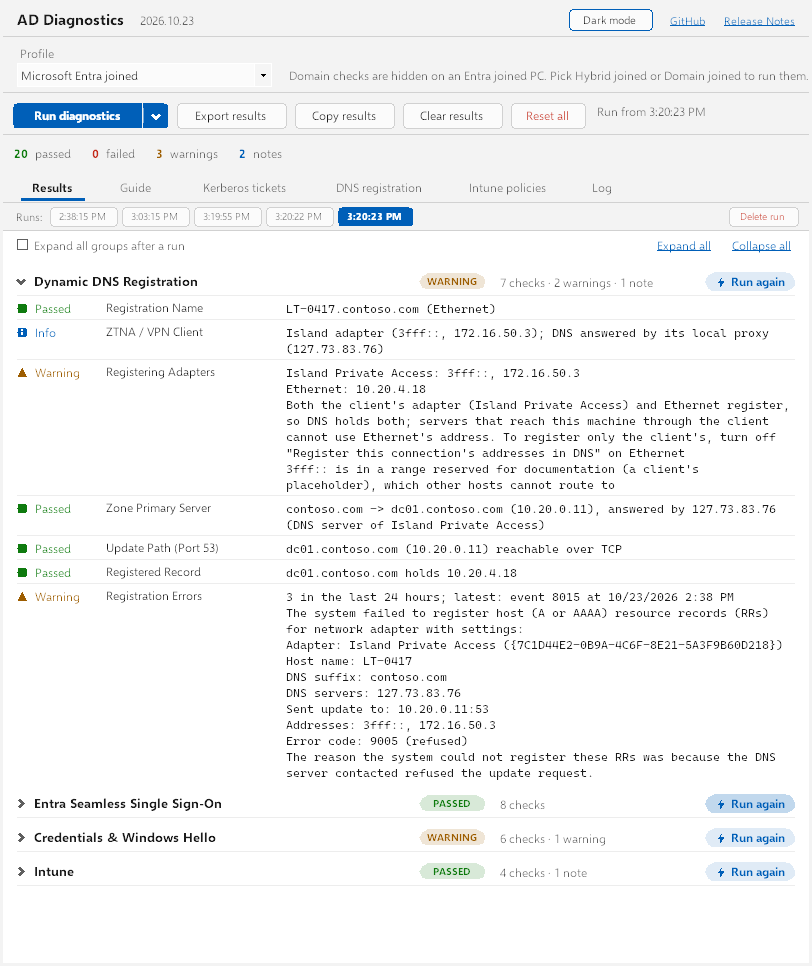
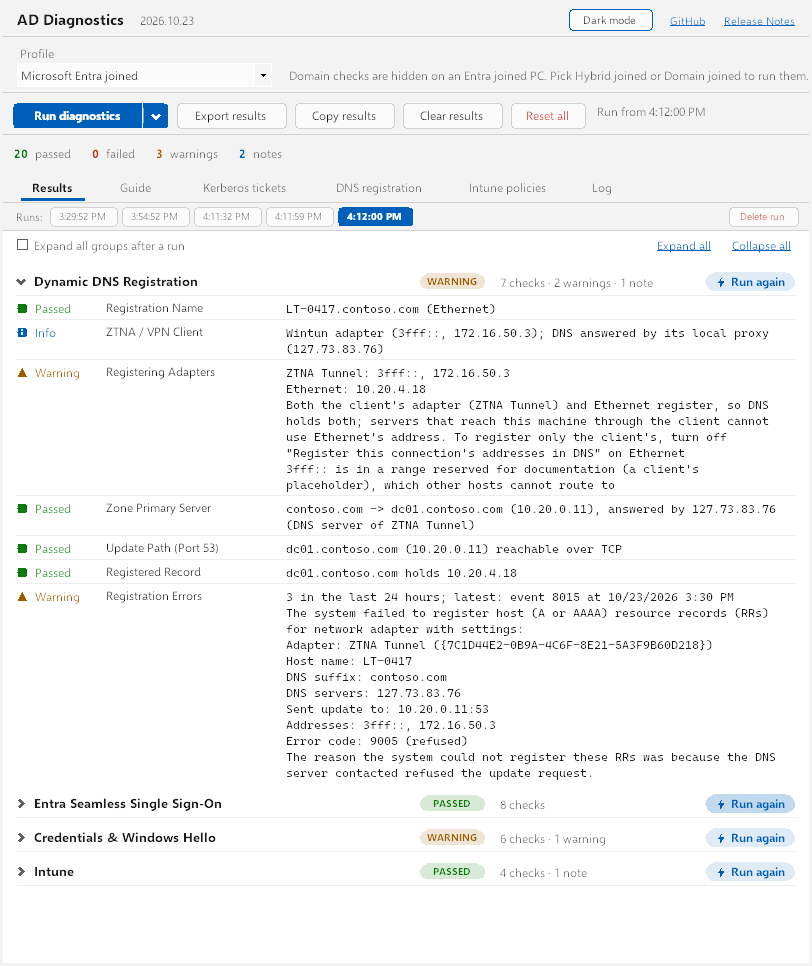
chore: remove the Island client from detection, docs and tests
Island's adapter is still caught by the generic Wintun entry, so ZTNA
detection is unchanged in effect; it is now labelled "Wintun adapter".
Tests and the screenshot mock use a generic "ZTNA Tunnel" adapter.

Claude-Session: https://claude.ai/code/session_01F5Q32oh4YGdSDNfSinn2zN

diff --git a/tests/AdDiag.Tests/DnsRegistrationTests.cs b/tests/AdDiag.Tests/DnsRegistrationTests.cs
@@ -58,11 +58,11 @@ public class DnsRegistrationTests
         Assert.Empty(probe.SoaCalls);
     }
 
-    // The PC from the report: no primary suffix, IOT has nscriven.net and registers, Island has scrivtech.com and doesn't
+    // The PC from the report: no primary suffix, IOT has nscriven.net and registers, the ZTNA tunnel has scrivtech.com and doesn't
     static List<NetAdapter> SuffixedAdapters(bool useSuffix) =>
     [
         new("IOT", "Red Hat VirtIO Ethernet Adapter", false, true, [ClientIp], [DcIp], DnsSuffix: "nscriven.net", RegistersSuffix: useSuffix),
-        new("Island Private Access", "Wintun Userspace Tunnel", false, false, [IPAddress.Parse("172.16.50.5")], [], DnsSuffix: "scrivtech.com", RegistersSuffix: true),
+        new("ZTNA Tunnel", "Wintun Userspace Tunnel", false, false, [IPAddress.Parse("172.16.50.5")], [], DnsSuffix: "scrivtech.com", RegistersSuffix: true),
     ];
 
     [Fact]
@@ -77,7 +77,7 @@ public class DnsRegistrationTests
         string detail = DetailOf(group, "Registration Name");
         Assert.StartsWith("Nothing is registered: PROX-ENTRA has no primary DNS suffix", detail);
         Assert.Contains("\nIOT: nscriven.net — \"Use this connection's DNS suffix in DNS registration\" is off", detail);
-        Assert.Contains("\nIsland Private Access: scrivtech.com — \"Register this connection's addresses in DNS\" is off", detail);
+        Assert.Contains("\nZTNA Tunnel: scrivtech.com — \"Register this connection's addresses in DNS\" is off", detail);
         // Nothing is registered, so the adapter list is not a pass
         Assert.Equal(Status.Skip, StatusOf(group, "Registering Adapters"));
         Assert.Equal($"No registration name. Once there is one, these addresses are registered:\nIOT: {ClientIp}", DetailOf(group, "Registering Adapters"));
@@ -87,32 +87,32 @@ public class DnsRegistrationTests
     [Fact]
     public void UsersPc_ClientAndLanBothRegister_NoContradictions()
     {
-        // The report's screenshot: both adapters register addresses, neither registers its suffix, and Island has an
-        // address-less second interface that used to print "Island adapter" twice
-        var island = new NetAdapter("Island Private Access", "Wintun Userspace Tunnel", false, true,
+        // The report's screenshot: both adapters register addresses, neither registers its suffix, and the client has an
+        // address-less second interface that used to print its adapter twice
+        var tunnel = new NetAdapter("ZTNA Tunnel", "Wintun Userspace Tunnel", false, true,
             [IPAddress.Parse("3fff::"), IPAddress.Parse("172.16.50.5")], [IPAddress.Parse("127.73.83.76")], PointToPoint: true, DnsSuffix: "scrivtech.com");
-        var filter = new NetAdapter("Island Private Access-WFP Native MAC Layer LightWeight Filter-0000", "Island Private Access", false, false, [], []);
+        var filter = new NetAdapter("ZTNA Tunnel-WFP Native MAC Layer LightWeight Filter-0000", "Wintun Userspace Tunnel", false, false, [], []);
         var iot = new NetAdapter("IOT", "Red Hat VirtIO Ethernet Adapter", false, true, [ClientIp], [DcIp], DnsSuffix: "nscriven.net");
         var probe = Healthy();
         probe.Identity = ("PROX-ENTRA", "");
         probe.NetAdapters.Clear();
-        probe.NetAdapters.AddRange([island, filter, iot]);
+        probe.NetAdapters.AddRange([tunnel, filter, iot]);
         var group = Run(probe);
 
         Assert.Equal(Status.Info, StatusOf(group, "ZTNA / VPN Client"));
-        Assert.Equal("Island adapter (3fff::, 172.16.50.5); DNS answered by its local proxy (127.73.83.76)", DetailOf(group, "ZTNA / VPN Client"));
+        Assert.Equal("Wintun adapter (3fff::, 172.16.50.5); DNS answered by its local proxy (127.73.83.76)", DetailOf(group, "ZTNA / VPN Client"));
         Assert.Equal(Status.Skip, StatusOf(group, "Registering Adapters"));
         Assert.DoesNotContain("Behind the ZTNA client", DetailOf(group, "Registering Adapters"));
         Assert.DoesNotContain(group.Tests, t => t.Status == Status.Pass && t.Name != "Registration Errors");
         Assert.EndsWith("\n3fff:: is in a range reserved for documentation (a client's placeholder), which other hosts cannot route to",
             DetailOf(group, "Registering Adapters"));
 
-        // With a name, Island registering its placeholder address is a warning, on top of the both-register note
+        // With a name, the client registering its placeholder address is a warning, on top of the both-register note
         probe.Identity = ("PROX-ENTRA", "nscriven.net");
         group = Run(probe);
         Assert.Equal(Status.Warn, StatusOf(group, "Registering Adapters"));
         string detail = DetailOf(group, "Registering Adapters");
-        Assert.Contains("Both the client's adapter (Island Private Access) and IOT register", detail);
+        Assert.Contains("Both the client's adapter (ZTNA Tunnel) and IOT register", detail);
         Assert.Contains("3fff:: is in a range reserved for documentation", detail);
     }
 
@@ -133,20 +133,20 @@ public class DnsRegistrationTests
     [Fact]
     public void ClientAndLanBothRegisterWithAName_IsANoteNamingTheLanAdapter()
     {
-        var island = new NetAdapter("Island Private Access", "Wintun Userspace Tunnel", false, true,
+        var tunnel = new NetAdapter("ZTNA Tunnel", "Wintun Userspace Tunnel", false, true,
             [IPAddress.Parse("172.16.50.5")], [DcIp], PointToPoint: true);
         var iot = new NetAdapter("IOT", "Red Hat VirtIO Ethernet Adapter", false, true, [ClientIp], [DcIp]);
         var probe = Healthy();
         probe.NetAdapters.Clear();
-        probe.NetAdapters.AddRange([island, iot]);
+        probe.NetAdapters.AddRange([tunnel, iot]);
         var group = Run(probe);
         Assert.Equal(Status.Info, StatusOf(group, "Registering Adapters"));
-        Assert.Contains("Both the client's adapter (Island Private Access) and IOT register", DetailOf(group, "Registering Adapters"));
+        Assert.Contains("Both the client's adapter (ZTNA Tunnel) and IOT register", DetailOf(group, "Registering Adapters"));
 
         probe.NetAdapters.Remove(iot);
         group = Run(probe);
         Assert.Equal(Status.Pass, StatusOf(group, "Registering Adapters"));
-        Assert.EndsWith("Island Private Access is the client's own adapter, so DNS gets the address servers reach this machine through",
+        Assert.EndsWith("ZTNA Tunnel is the client's own adapter, so DNS gets the address servers reach this machine through",
             DetailOf(group, "Registering Adapters"));
     }
 
@@ -163,15 +163,15 @@ public class DnsRegistrationTests
     public void Adapters_OnePerLine_AndFilterCopiesDropped()
     {
         // The user's PC: Npcap's filter on the client adapter shows up as a second interface with the same addresses
-        var island = new NetAdapter("Island Private Access", "Wintun Userspace Tunnel", false, false,
+        var tunnel = new NetAdapter("ZTNA Tunnel", "Wintun Userspace Tunnel", false, false,
             [IPAddress.Parse("3fff::1"), IPAddress.Parse("172.16.50.5")], [], PointToPoint: true);
-        var npcap = island with { Name = "Island Private Access-Npcap Packet Driver (NPCAP)-0000" };
+        var npcap = tunnel with { Name = "ZTNA Tunnel-Npcap Packet Driver (NPCAP)-0000" };
         var lan = new NetAdapter("IOT", "Red Hat VirtIO Ethernet Adapter", false, true, [ClientIp], [DcIp]);
         var wifi = new NetAdapter("Wi-Fi", "Intel(R) Wi-Fi 6 AX201", false, true, [HomeIp], [DcIp]);
         // A name that merely starts the same, with other addresses, is a real adapter
         var other = new NetAdapter("IOT-2", "Red Hat VirtIO Ethernet Adapter #2", false, false, [IPAddress.Parse("10.9.9.9")], []);
-        Assert.Equal(["Island Private Access", "IOT", "Wi-Fi", "IOT-2"],
-            Diagnostics.DropFilterBindings([island, npcap, lan, wifi, other]).Select(a => a.Name));
+        Assert.Equal(["ZTNA Tunnel", "IOT", "Wi-Fi", "IOT-2"],
+            Diagnostics.DropFilterBindings([tunnel, npcap, lan, wifi, other]).Select(a => a.Name));
 
         var probe = new FakeProbe();
         probe.NetAdapters.Clear();
@@ -225,8 +225,8 @@ public class DnsRegistrationTests
             [IPAddress.Parse("fe80::1"), IPAddress.Parse("172.16.50.3")], [IPAddress.Parse("127.73.83.76")], Virtual: true);
         Assert.Equal("virtual adapter \"Acme Access\" (172.16.50.3); DNS answered by its local proxy (127.73.83.76)",
             Diagnostics.DescribeZtna([lan, client]));
-        var island = client with { Name = "Island Private Access", Description = "Island Private Access Virtual Adapter Tunnel" };
-        Assert.StartsWith("Island adapter (172.16.50.3)", Diagnostics.DescribeZtna([lan, island]));
+        var twingate = client with { Name = "Twingate", Description = "Twingate Virtual Adapter" };
+        Assert.StartsWith("Twingate adapter (172.16.50.3)", Diagnostics.DescribeZtna([lan, twingate]));
 
         var miniport = new NetAdapter("Local Area Connection* 6", "WAN Miniport (IP)", false, false, [], [], Virtual: true);
         var vswitch = new NetAdapter("vEthernet (Default Switch)", "Hyper-V Virtual Ethernet Adapter", false, true, [IPAddress.Parse("172.22.0.1")], [], Virtual: true);

diff --git a/MainForm.cs b/MainForm.cs
@@ -1164,10 +1164,10 @@ class MainForm : Form
                 "A domain member registers its own host record with the DNS server that owns its zone. These checks only read; the DNS registration tab can send a registration and trace it. A ZTNA or VPN client changes what each step means, so it is detected first.\n\n" +
                 "• Registration Name — the name Windows registers: the host name plus the primary DNS suffix, and plus an adapter's own DNS suffix where \"Use this connection's DNS suffix in DNS registration\" is on\n" +
                 "  Fix: A machine with neither registers nothing, and the checks that need a name are skipped. The primary suffix is set by the domain join (System Properties > Computer Name > Change > More). The adapter has two separate switches in IPv4 > Advanced > DNS: 'Register this connection's addresses in DNS' and 'Use this connection's DNS suffix in DNS registration'. To register under the adapter's suffix, both must be on; the first alone registers nothing when there is no primary suffix\n\n" +
-                "• ZTNA / VPN Client — an adapter from a known client (Zscaler, Cloudflare WARP, Netskope, GlobalProtect, Twingate, Island and others), any other tunnel or virtual adapter that holds an address, an adapter with a /32 address and no gateway, 100.64.0.0/10 addresses, or DNS answered by the client's local proxy (a note, not a verdict)\n" +
+                "• ZTNA / VPN Client — an adapter from a known client (Zscaler, Cloudflare WARP, Netskope, GlobalProtect, Twingate and others), any other tunnel or virtual adapter that holds an address, an adapter with a /32 address and no gateway, 100.64.0.0/10 addresses, or DNS answered by the client's local proxy (a note, not a verdict)\n" +
                 "  Fix: Nothing to fix. It explains the results below: the client decides which DNS queries and which traffic reach the corporate network. If a client is missed or wrongly found, pick its adapter (or None) under 'ZTNA adapter' on the DNS registration tab; the choice lasts until the app closes\n\n" +
                 "• Registering Adapters — the connected adapters with 'Register this connection's addresses in DNS' turned on, and the addresses they would register. Skipped when there is no registration name, since nothing is registered. Behind a client it says whether the client's own adapter registers, and a note when the local network's adapter registers beside it\n" +
-                "  Fix: Turn registration off on a tunnel adapter that holds a 100.64.0.0/10 address or a documentation-range placeholder such as 3fff:: (Island), since no other host can route to either. When servers reach this machine through the client, register only the client's adapter. Set it per adapter (IPv4 properties > Advanced > DNS) or with 'Set-DnsClient -RegisterThisConnectionsAddress'\n\n" +
+                "  Fix: Turn registration off on a tunnel adapter that holds a 100.64.0.0/10 address or a documentation-range placeholder such as 3fff::, since no other host can route to either. When servers reach this machine through the client, register only the client's adapter. Set it per adapter (IPv4 properties > Advanced > DNS) or with 'Set-DnsClient -RegisterThisConnectionsAddress'\n\n" +
                 "• Zone Primary Server — the zone holding this machine's name and its primary server, from the SOA record, asked of the DNS servers of the adapters that register, as Windows does; the detail names the server that answered. Windows sends updates to the primary server\n" +
                 "  Fix: If no SOA is found behind a ZTNA client, its DNS proxy is answering address lookups only; updates then need DNS for the AD zone to reach a real DNS server. A primary server shown with a 100.64.0.0/10 address is a synthetic address from the client. One with a public address is usually the zone's internet-facing copy, which takes no updates from this machine: the DNS server that answered does not know the internal zone\n\n" +
                 "• Update Path (Port 53) — TCP 53 to the primary server. Secure updates negotiate over TCP and also need Kerberos (port 88) to a domain controller\n" +

diff --git a/tools/screenshots/Shots.cs b/tools/screenshots/Shots.cs
@@ -420,22 +420,22 @@ static class Shots
         ];
     }
 
-    // An Entra joined laptop behind Island: both adapters register, the client's adapter with its 3fff:: placeholder,
+    // An Entra joined laptop behind a ZTNA client: both adapters register, the client's adapter with its 3fff:: placeholder,
     // and the DNS server refuses the update. The texts are the app's own, as DnsRegistration.cs writes them.
     static TestGroup MockZtnaRegistration(DateTime now) => new("Dynamic DNS Registration",
     [
         new("Registration Name", Status.Pass, "LT-0417.contoso.com (Ethernet)"),
-        new("ZTNA / VPN Client", Status.Info, "Island adapter (3fff::, 172.16.50.3); DNS answered by its local proxy (127.73.83.76)"),
-        new("Registering Adapters", Status.Warn, "Island Private Access: 3fff::, 172.16.50.3\nEthernet: 10.20.4.18\n"
-            + "Both the client's adapter (Island Private Access) and Ethernet register, so DNS holds both; servers that reach this machine "
+        new("ZTNA / VPN Client", Status.Info, "Wintun adapter (3fff::, 172.16.50.3); DNS answered by its local proxy (127.73.83.76)"),
+        new("Registering Adapters", Status.Warn, "ZTNA Tunnel: 3fff::, 172.16.50.3\nEthernet: 10.20.4.18\n"
+            + "Both the client's adapter (ZTNA Tunnel) and Ethernet register, so DNS holds both; servers that reach this machine "
             + "through the client cannot use Ethernet's address. To register only the client's, turn off \"Register this connection's "
             + "addresses in DNS\" on Ethernet\n3fff:: is in a range reserved for documentation (a client's placeholder), which other hosts cannot route to"),
-        new("Zone Primary Server", Status.Pass, "contoso.com -> dc01.contoso.com (10.20.0.11), answered by 127.73.83.76 (DNS server of Island Private Access)"),
+        new("Zone Primary Server", Status.Pass, "contoso.com -> dc01.contoso.com (10.20.0.11), answered by 127.73.83.76 (DNS server of ZTNA Tunnel)"),
         new("Update Path (Port 53)", Status.Pass, "dc01.contoso.com (10.20.0.11) reachable over TCP"),
         new("Registered Record", Status.Pass, "dc01.contoso.com holds 10.20.4.18"),
         new("Registration Errors", Status.Warn, $"3 in the last 24 hours; latest: event 8015 at {now.AddMinutes(-42):g}\n"
             + "The system failed to register host (A or AAAA) resource records (RRs) for network adapter with settings:\n"
-            + "Adapter: Island Private Access ({7C1D44E2-0B9A-4C6F-8E21-5A3F9B60D218})\nHost name: LT-0417\nDNS suffix: contoso.com\n"
+            + "Adapter: ZTNA Tunnel ({7C1D44E2-0B9A-4C6F-8E21-5A3F9B60D218})\nHost name: LT-0417\nDNS suffix: contoso.com\n"
             + "DNS servers: 127.73.83.76\nSent update to: 10.20.0.11:53\nAddresses: 3fff::, 172.16.50.3\nError code: 9005 (refused)\n"
             + "The reason the system could not register these RRs was because the DNS server contacted refused the update request."),
     ]);

diff --git a/DnsRegistration.cs b/DnsRegistration.cs
@@ -43,8 +43,7 @@ static partial class Diagnostics
         ("anyconnect", "Cisco AnyConnect"), ("cisco secure client", "Cisco Secure Client"),
         ("fortinet", "FortiClient"), ("citrix secure access", "Citrix Secure Access"), ("appgate", "Appgate"),
         ("cato networks", "Cato"), ("check point", "Check Point"), ("banyan", "Banyan"), ("ip-https", "DirectAccess"),
-        ("island private access", "Island"),
-        // Generic tunnel drivers other clients build on (Island runs on Wintun), so a product name above wins
+        // Generic tunnel drivers other clients build on, so a product name above wins
         ("wireguard", "WireGuard"), ("openvpn", "OpenVPN"), ("tap-windows", "OpenVPN"), ("wintun", "Wintun"),
     ];
 
@@ -64,7 +63,7 @@ static partial class Diagnostics
 
     /// <summary>
     /// Ranges reserved for documentation, which nothing routes: 3fff::/20 and 2001:db8::/32, and 192.0.2.0/24,
-    /// 198.51.100.0/24 and 203.0.113.0/24. Some clients (Island) give their adapter 3fff:: as a placeholder.
+    /// 198.51.100.0/24 and 203.0.113.0/24. Some clients give their adapter 3fff:: as a placeholder.
     /// </summary>
     public static bool IsDocumentation(IPAddress ip)
     {

diff --git a/README.md b/README.md
@@ -192,8 +192,8 @@ Reads the Resultant Set of Policy logging data from WMI (`root\rsop`), the same 
 Checks whether this machine's own host record can reach, and is right on, the DNS server that owns its zone. These checks only read. SOA and host records are queried with the Windows DNS API on the wire, never from the resolver cache or the machine's own knowledge of its name.
 
 - **Registration Name** — the name Windows registers: host name plus primary DNS suffix, and host name plus an adapter's own DNS suffix where "Use this connection's DNS suffix in DNS registration" is on. With neither, nothing is registered: it lists each adapter's suffix and which of its two switches is off ("Register this connection's addresses in DNS", "Use this connection's DNS suffix in DNS registration"), and the checks that need a name are skipped
-- **ZTNA / VPN Client** (a note, not a verdict) — an adapter from a known client (Zscaler, Cloudflare WARP, Netskope, GlobalProtect, Twingate, Tailscale, Island, Microsoft Global Secure Access, Cisco, Fortinet and others), any other tunnel adapter, any other virtual (software) adapter that holds an address, an adapter with a `/32` address and no default gateway, addresses in `100.64.0.0/10`, or DNS answered by the client's local proxy. Hypervisor and loopback adapters are not counted. A client in "VPN mode" gives its adapter a real routable address, so detection does not depend on the address range
-- **Registering Adapters** — connected adapters with "Register this connection's addresses in DNS" turned on and the addresses they would register, one adapter per line. Skipped when there is no registration name. Warns when one is an address no other host can route to: a `100.64.0.0/10` tunnel address, or a documentation-range placeholder such as Island's `3fff::`. Behind a client it notes when the client's adapter has registration off, or when the local network's adapter registers beside it
+- **ZTNA / VPN Client** (a note, not a verdict) — an adapter from a known client (Zscaler, Cloudflare WARP, Netskope, GlobalProtect, Twingate, Tailscale, Microsoft Global Secure Access, Cisco, Fortinet and others), any other tunnel adapter, any other virtual (software) adapter that holds an address, an adapter with a `/32` address and no default gateway, addresses in `100.64.0.0/10`, or DNS answered by the client's local proxy. Hypervisor and loopback adapters are not counted. A client in "VPN mode" gives its adapter a real routable address, so detection does not depend on the address range
+- **Registering Adapters** — connected adapters with "Register this connection's addresses in DNS" turned on and the addresses they would register, one adapter per line. Skipped when there is no registration name. Warns when one is an address no other host can route to: a `100.64.0.0/10` tunnel address, or a documentation-range placeholder such as `3fff::`. Behind a client it notes when the client's adapter has registration off, or when the local network's adapter registers beside it
 - **Zone Primary Server** — the zone and its primary server, found the way Windows finds where to send an update: the SOA record of the name, then of each parent, asked of the DNS servers of the adapters that register (IPv4 servers, in order; one that doesn't answer is passed over), not of whichever server the system resolver prefers. The detail names the server that answered. If no registering adapter has an IPv4 DNS server, the configured DNS servers are asked. Warns when the primary server resolves to a public address, which usually means the zone found is the internet-facing copy that takes no updates from this machine; a synthetic `100.64.0.0/10` address from a ZTNA client is Info, since updates reach the real server if the client forwards port 53 for it
 - **Update Path (Port 53)** — TCP 53 to the primary server
 - **Registered Record** — the A/AAAA records the primary server holds for this machine (asked directly; the configured DNS servers if it doesn't answer), compared with the addresses the machine has now
@@ -418,7 +418,7 @@ Versions are now the release date (`vYYYY.MM.DD`) instead of semver.
 #### Dynamic DNS Registration
 - The registration name uses an adapter's own suffix where Windows does. With no name, it says which adapter switch is off and skips the checks that need a name.
 - Registering adapters show one per line, and a ZTNA client's adapter registering beside the local network's is noted.
-- A documentation-range placeholder such as Island's `3fff::` warns like a `100.64.0.0/10` address.
+- A documentation-range placeholder such as `3fff::` warns like a `100.64.0.0/10` address.
 - DNS Client failure events show one setting per line, read from the event's own fields.
 
 #### Fixed
